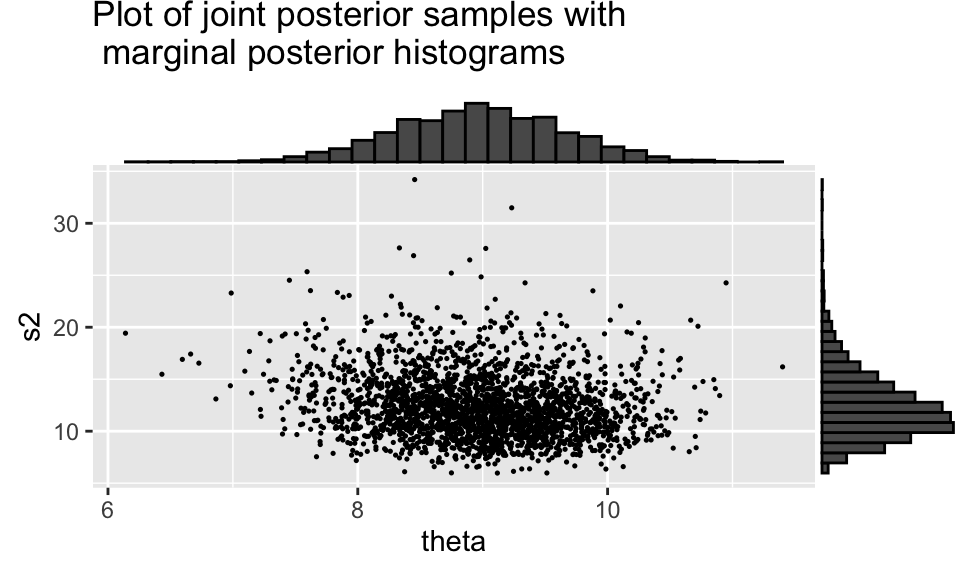
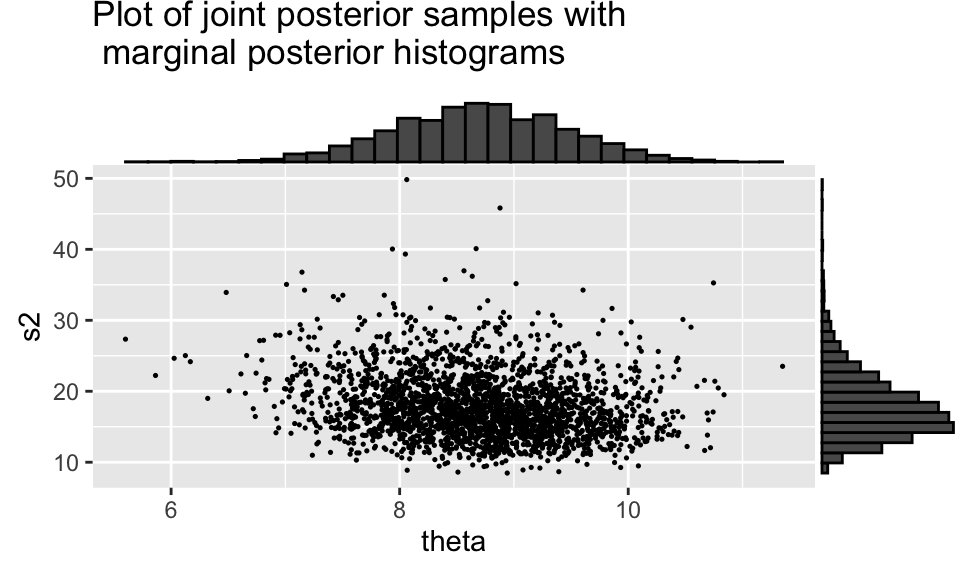
open code for normal gibbs

diff --git a/docs/code/gibbs_normal_model_walkthrough.html b/docs/code/gibbs_normal_model_walkthrough.html
@@ -225,20 +225,13 @@ Y_{i} \mid \theta, \sigma^2 &amp;\overset{iid}{\sim} N(\theta, \sigma^2) \qquad 
 \end{align*}\]</span></p>
 <p>where <span class="math inline">\(\phi = \frac{1}{\sigma^2}\)</span>. We have to fill out our priors for <span class="math inline">\(\theta\)</span> and <span class="math inline">\(\phi\)</span> to fully specify the statistical model before seeing the data. Let’s do that together!</p>
 <div class="cell">
-<div class="code-copy-outer-scaffold"><div class="sourceCode cell-code" id="cb1"><pre class="sourceCode r code-with-copy"><code class="sourceCode r"><span id="cb1-1"><a href="#cb1-1" aria-hidden="true" tabindex="-1"></a>mu_0 <span class="ot">&lt;-</span> <span class="dv">5</span></span>
-<span id="cb1-2"><a href="#cb1-2" aria-hidden="true" tabindex="-1"></a>s2_0 <span class="ot">&lt;-</span> <span class="dv">4</span></span>
+<div class="code-copy-outer-scaffold"><div class="sourceCode cell-code" id="cb1"><pre class="sourceCode r code-with-copy"><code class="sourceCode r"><span id="cb1-1"><a href="#cb1-1" aria-hidden="true" tabindex="-1"></a>mu_0 <span class="ot">&lt;-</span> <span class="dv">6</span></span>
+<span id="cb1-2"><a href="#cb1-2" aria-hidden="true" tabindex="-1"></a>s2_0 <span class="ot">&lt;-</span> <span class="fl">2.5</span></span>
 <span id="cb1-3"><a href="#cb1-3" aria-hidden="true" tabindex="-1"></a>a_0 <span class="ot">&lt;-</span> <span class="dv">5</span></span>
-<span id="cb1-4"><a href="#cb1-4" aria-hidden="true" tabindex="-1"></a>b_0 <span class="ot">&lt;-</span> <span class="dv">15</span></span>
+<span id="cb1-4"><a href="#cb1-4" aria-hidden="true" tabindex="-1"></a>b_0 <span class="ot">&lt;-</span> <span class="dv">100</span></span>
 <span id="cb1-5"><a href="#cb1-5" aria-hidden="true" tabindex="-1"></a></span>
 <span id="cb1-6"><a href="#cb1-6" aria-hidden="true" tabindex="-1"></a><span class="co"># demonstrate how I might do prior elicitation</span></span>
-<span id="cb1-7"><a href="#cb1-7" aria-hidden="true" tabindex="-1"></a><span class="fu">hist</span>(<span class="fu">sqrt</span>(<span class="dv">1</span><span class="sc">/</span>(<span class="fu">rgamma</span>(<span class="dv">10000</span>, a_0, b_0))))</span></code></pre></div><button title="Copy to Clipboard" class="code-copy-button"><i class="bi"></i></button></div>
-<div class="cell-output-display">
-<div>
-<figure class="figure">
-<p><img src="gibbs_normal_model_walkthrough_files/figure-html/unnamed-chunk-1-1.png" class="img-fluid figure-img" width="480"></p>
-</figure>
-</div>
-</div>
+<span id="cb1-7"><a href="#cb1-7" aria-hidden="true" tabindex="-1"></a><span class="co"># hist(sqrt(1/(rgamma(10000, a_0, b_0))))</span></span></code></pre></div><button title="Copy to Clipboard" class="code-copy-button"><i class="bi"></i></button></div>
 </div>
 </section>
 <section id="data" class="level2">
@@ -372,23 +365,23 @@ Y_{i} \mid \theta, \sigma^2 &amp;\overset{iid}{\sim} N(\theta, \sigma^2) \qquad 
 <div class="code-copy-outer-scaffold"><div class="sourceCode cell-code" id="cb9"><pre class="sourceCode r code-with-copy"><code class="sourceCode r"><span id="cb9-1"><a href="#cb9-1" aria-hidden="true" tabindex="-1"></a><span class="co"># estimated posterior mean of theta</span></span>
 <span id="cb9-2"><a href="#cb9-2" aria-hidden="true" tabindex="-1"></a><span class="fu">mean</span>(THETA)</span></code></pre></div><button title="Copy to Clipboard" class="code-copy-button"><i class="bi"></i></button></div>
 <div class="cell-output cell-output-stdout">
-<pre><code>[1] 8.967482</code></pre>
+<pre><code>[1] 8.693283</code></pre>
 </div>
 <div class="code-copy-outer-scaffold"><div class="sourceCode cell-code" id="cb11"><pre class="sourceCode r code-with-copy"><code class="sourceCode r"><span id="cb11-1"><a href="#cb11-1" aria-hidden="true" tabindex="-1"></a><span class="co"># estimated posterior mean of sigma</span></span>
 <span id="cb11-2"><a href="#cb11-2" aria-hidden="true" tabindex="-1"></a><span class="fu">mean</span>(<span class="fu">sqrt</span>(S2))</span></code></pre></div><button title="Copy to Clipboard" class="code-copy-button"><i class="bi"></i></button></div>
 <div class="cell-output cell-output-stdout">
-<pre><code>[1] 3.493671</code></pre>
+<pre><code>[1] 4.19726</code></pre>
 </div>
 <div class="code-copy-outer-scaffold"><div class="sourceCode cell-code" id="cb13"><pre class="sourceCode r code-with-copy"><code class="sourceCode r"><span id="cb13-1"><a href="#cb13-1" aria-hidden="true" tabindex="-1"></a><span class="do">## estimated CIs</span></span>
 <span id="cb13-2"><a href="#cb13-2" aria-hidden="true" tabindex="-1"></a><span class="fu">quantile</span>(THETA, <span class="fu">c</span>(<span class="fl">0.025</span>, <span class="fl">0.975</span>))</span></code></pre></div><button title="Copy to Clipboard" class="code-copy-button"><i class="bi"></i></button></div>
 <div class="cell-output cell-output-stdout">
 <pre><code>     2.5%     97.5% 
- 7.629652 10.265034 </code></pre>
+ 7.177723 10.142940 </code></pre>
 </div>
 <div class="code-copy-outer-scaffold"><div class="sourceCode cell-code" id="cb15"><pre class="sourceCode r code-with-copy"><code class="sourceCode r"><span id="cb15-1"><a href="#cb15-1" aria-hidden="true" tabindex="-1"></a><span class="fu">quantile</span>(<span class="fu">sqrt</span>(S2), <span class="fu">c</span>(<span class="fl">0.025</span>, <span class="fl">0.975</span>))</span></code></pre></div><button title="Copy to Clipboard" class="code-copy-button"><i class="bi"></i></button></div>
 <div class="cell-output cell-output-stdout">
 <pre><code>    2.5%    97.5% 
-2.787186 4.464605 </code></pre>
+3.355402 5.368383 </code></pre>
 </div>
 </div>
 </section>

diff --git a/docs/schedule.html b/docs/schedule.html
@@ -239,8 +239,7 @@ ul.task-list li input[type="checkbox"] {
 <li><p>Normal model (cont.) with Gibbs sampling!</p>
 <ul>
 <li>Data under <a href="./handouts.html">Handouts</a></li>
-<li>Code to be posted after class</li>
-<li><a href="handouts/gibbs_gamma_gamma_poisson.pdf">Practice</a> (time permitting)</li>
+<li><a href="./code/gibbs_normal_model_walkthrough.html">Code</a> from class</li>
 </ul></li>
 </ul></td>
 <td><ul>
